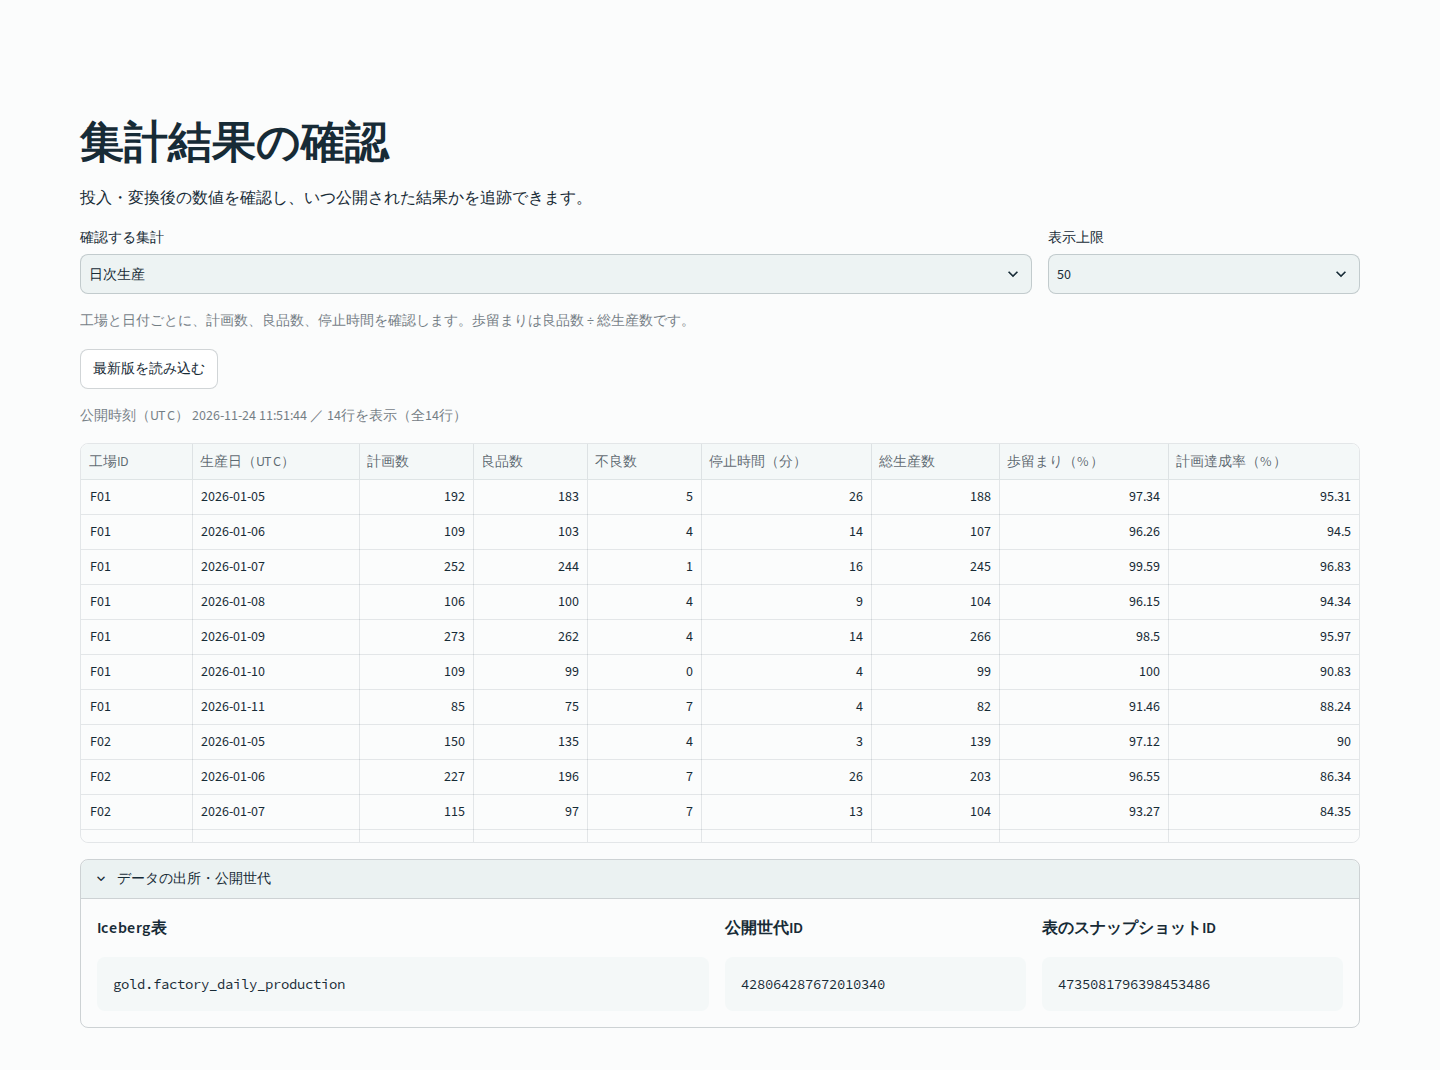
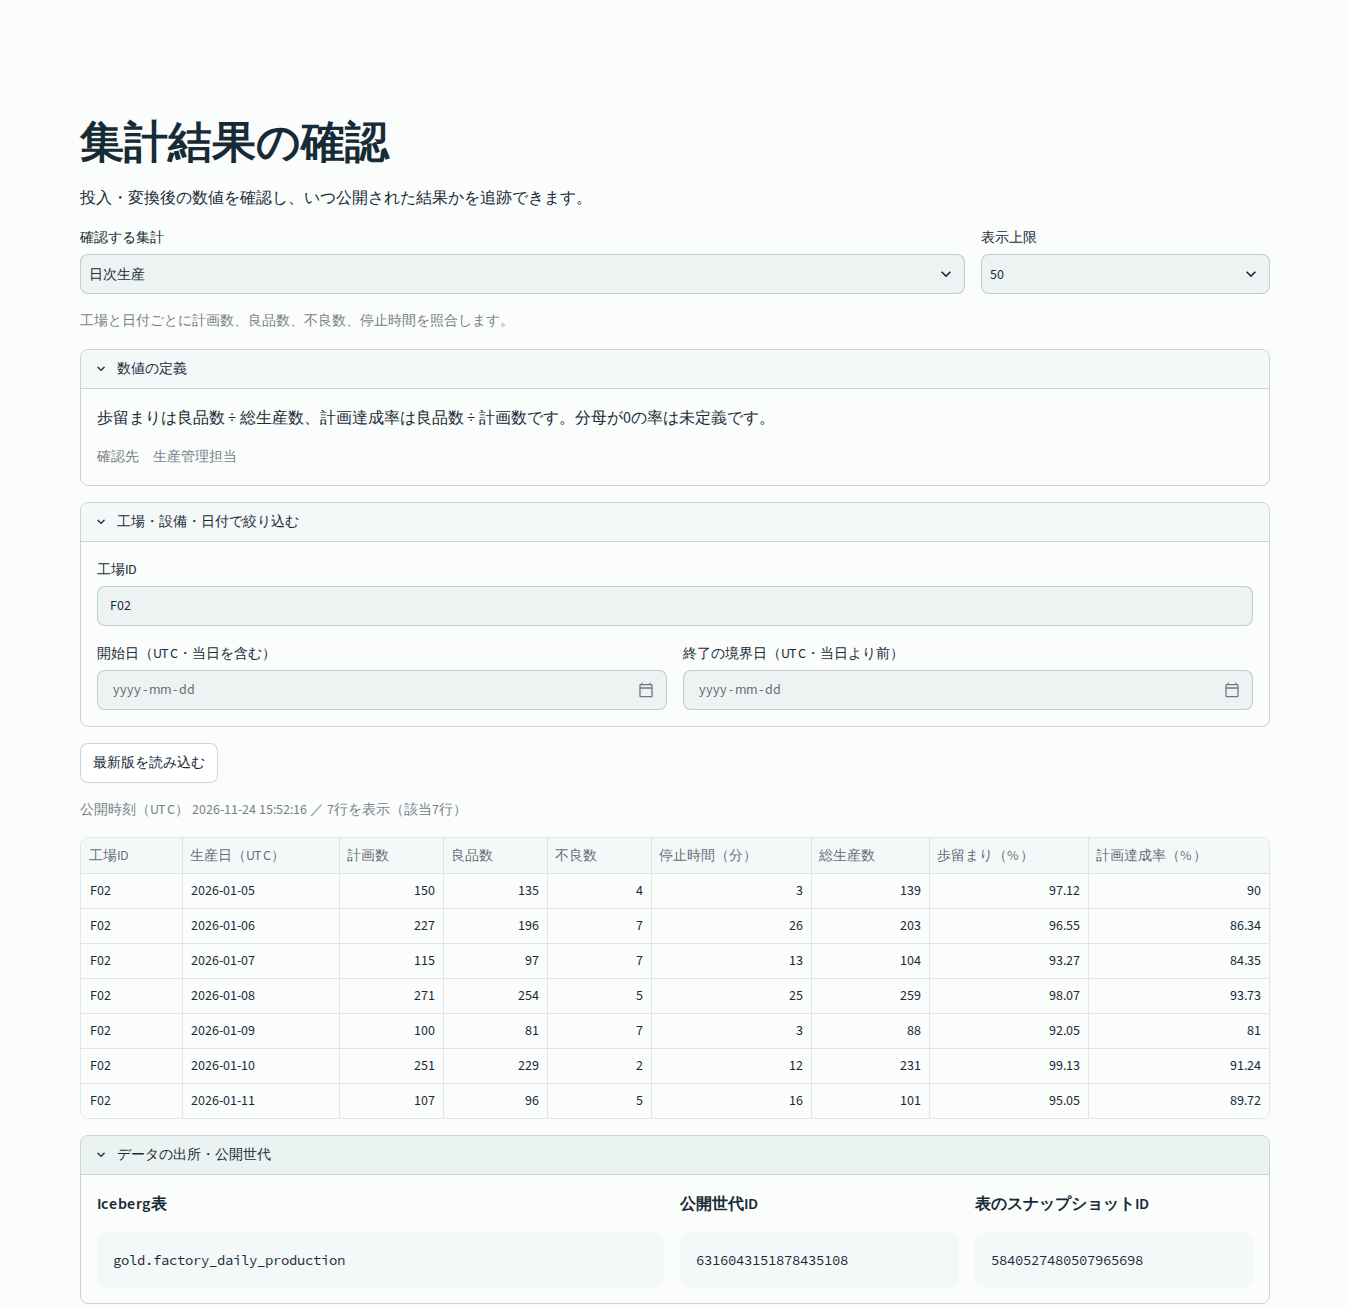
Document the tested generator handoff and filtered data viewer

diff --git a/examples/marimo/browser_smoke.py b/examples/marimo/browser_smoke.py
@@ -15,6 +15,11 @@ def main():
     parser.add_argument("origin")
     parser.add_argument("token_file", type=Path)
     parser.add_argument("screenshot", type=Path)
+    parser.add_argument(
+        "--chromium-executable",
+        type=Path,
+        help="既存のChromiumを使う場合のパス",
+    )
     args = parser.parse_args()
     password = args.token_file.read_text(encoding="utf-8").strip()
     requests_outside_origin = set()
@@ -26,7 +31,9 @@ def main():
         route.abort()
 
     with sync_playwright() as playwright:
-        browser = playwright.chromium.launch()
+        browser = playwright.chromium.launch(
+            executable_path=args.chromium_executable
+        )
         context = browser.new_context(viewport={"width": 1180, "height": 830})
         context.route(
             re.compile(rf"^https?://(?!{re.escape(origin.netloc)}(?:/|$))"),

diff --git a/examples/rill/browser_smoke.py b/examples/rill/browser_smoke.py
@@ -15,6 +15,11 @@ def main():
     parser.add_argument("origin")
     parser.add_argument("password", type=Path)
     parser.add_argument("screenshot", type=Path)
+    parser.add_argument(
+        "--chromium-executable",
+        type=Path,
+        help="既存のChromiumを使う場合のパス",
+    )
     args = parser.parse_args()
     origin = urlsplit(args.origin)
     password = args.password.read_text(encoding="utf-8").strip()
@@ -25,7 +30,9 @@ def main():
         route.abort()
 
     with sync_playwright() as playwright:
-        browser = playwright.chromium.launch()
+        browser = playwright.chromium.launch(
+            executable_path=args.chromium_executable
+        )
         anonymous = browser.new_context()
         assert anonymous.request.get(args.origin).status == 401
         anonymous.close()

diff --git a/scripts/check-source.py b/scripts/check-source.py
@@ -41,6 +41,7 @@ REVIEWED_PNG_SHA256 = {
[1 lines of base64/hex data omitted]
     },
     "docs/native/images/data-browser-demo.png": {
[3 lines of base64/hex data omitted]
     },

diff --git a/docs/native/ACCEPTANCE.md b/docs/native/ACCEPTANCE.md
@@ -22,7 +22,7 @@
 | --- | --- | --- | --- |
 | Git取得 | 会社VMから公開HTTPS URLの `git ls-remote` | `refs/heads/main` とコミットIDが返る | Gitのproxy、許可リスト、OSの信頼CA |
 | 配置 | DokployのDeployとDeploymentsログ、対象サービスの状態を照合 | 7サービス起動、`catalog-migrate` 終了0、Lakehouseがhealthy | Docker daemonとBuildKitの通信、Composeログ |
-| 業務契約 | `python3 native/check_contracts.py`、Dokployのコンテナ端末で `verify` | 契約19ファイル一致。画像原本・型検査・集計など11項目。初回7ファイル、再実行0 | 検査名、固定の期待値、カタログとS3 |
+| 業務契約 | `python3 native/check_contracts.py`、Dokployのコンテナ端末で `verify` | 契約20ファイルとデータ製品の定義が一致。画像原本・型検査・集計など11項目。初回7ファイル、再実行0 | 検査名、固定の期待値、カタログとS3 |
 | 業務処理 | 合成ファイルを生成し `medallion`、Gold参照 | 初回6ファイル、SQL14本。日次生産は2工場×7日。上限5で全14行中5行を返す | 完了印、ファイル名・列、Gold公開時刻 |
 | 再実行 | 入力を変えずに `medallion` とGold参照 | 新規0、`unchanged: true`。前回と同じ公開世代 | 入力の変更、変換の版、稼働中のwriter |
 | 画面・監視 | Grafana、任意GUIに接続 | 監視は標準7対象、GUI付き9対象。閲覧は認証が必要。公開した日次集計と公開世代を確認 | 各サービスの状態、ブラウザー接続経路、ゲートウェイ認証 |
@@ -33,17 +33,34 @@
 
 | 検証 | 入力・操作 | 合格条件 |
 | --- | --- | --- |
-| 画像原本 | 合成PNGとSHA-256完了印を隔離namespaceで取込 | S3のバイト列と元のSHA-256が一致 |
+| 画像原本 | 合成PNGとSHA-256完了印を隔離namespaceで取込 | 正常→破損→正常の原本、SHA-256、画像の隔離と修復を照合 |
 | 受注、日次生産 | 部分・遅延出荷、複数実績と停止、遅延到着、不正値を含む固定fixture | 二重計上がなく、Goldの数量・率とQuarantineが独立期待値に一致 |
 | 設備 | 完全重複1件と同一キー競合2件を含む5行 | 採用2点、GOOD 1点、GOOD平均24.5、最新値90・BAD |
 | SQLバッチ | 合成6表セットを同じ観測日時で2回反映 | 初回の製品1件、再実行skip、SQL専用Goldから参照 |
 | API認証 | 無認証、読取トークン、操作トークンを使い分ける | 無認証と操作トークンでGoldは401、読取トークンで書込みは401 |
-| ファイル形式の誤り | 業務表に未定義のヘッダーを持つCSVに完了印を付けて取込 | ジョブはエラーになり、直前に公開したGoldの世代は変わらない |
+| ファイル形式の誤り | 業務表に未定義のヘッダーを持つCSVに完了印を付けて取込 | 照合済み原本は保存する。ジョブはエラーになり、完了台帳と直前のGold公開世代を維持 |
 | 設備障害と業務更新 | 設備の完了印を破損させ、正しい製品CSVを同時投入。完了印を修復して再実行 | 新しい業務世代を公開し、設備には前回のスナップショットを表示。部分成功と設備の更新保留を記録し、旧世代と復旧後を引き続き読める |
 | 任意の閲覧構成 | 認証なしと認証付きで3画面に接続し、Lakekeeperへ更新要求 | 未認証は401、認証付き閲覧は200、更新要求は403。9対象の疎通値は1 |
 | 外部Kafka CDC | 隔離brokerに新旧更新、遅延snapshot、DELETE、tombstoneを発行し、consumerを再起動 | Raw 9件、offset 0〜8で欠落・重複0。旧版が勝たず、削除後の古い追加は復活せず、再開後の新しい追加を公開 |
 
 [標準Composeの受入コード](../../tests/integration/native/acceptance.py) · [CDCの受入コード](../../tests/integration/native/cdc_acceptance.py) · [業務集計の期待値](../../medallion/expected-demo.json) · [実行結果の一覧](https://github.com/hiromura16/lakehouse-foundation-R/actions)
+
+## 別の投入アプリと受け渡しを照合する
+
+合成試験では独立したファイル生成アプリの通常APIから、製品2件のUTF-8 CSVと
+SHA-256完了印を同じlandingに確定しました。基盤側でS3の原本242バイト、
+Iceberg Silverの日本語名2件と周期の `DECIMAL(18,3)`、固定の指図・受注など
+5入力との集計を照合しました。
+
+| 確認した届き方 | 照合結果 |
+| --- | --- |
+| 送信側の成否と原本 | CSVと完了印が一致。送信側で同じ配送を再実行して書込0 |
+| 受信側の変換 | 初回6ファイル、SQL14文。日次は計画20・良品10・不良1・停止5分。出荷は受注5・出荷3・未出荷2 |
+| 再実行 | 新規0、再変換0、同じ公開世代で全行一致 |
+
+会社で試す際は [入力契約](SOURCES.md) に合う受け渡し先に配置します。
+生成アプリが示す完了と、基盤の取込・公開はそれぞれ確認します。
+テスト用合成データで通した取り込み経路はローカル共有です。
 
 ## 実データへ移る前に
 

diff --git a/docs/native/GUI.md b/docs/native/GUI.md
@@ -35,7 +35,7 @@
 終了の境界日を1月6日にします。
 絞り込みを変えても、**最新版を読み込む** までは同じ公開世代を使います。
 
-![合成データを使った工場別日次生産の閲覧画面](images/data-browser-demo.png)
+![合成データを工場F02の7日分に絞り、数値の定義と公開世代を同時に確認する画面](images/data-browser-demo.png)
 
 同じブラウザーセッションで集計を切り替えると、最初に開いた公開世代の結果を表示します。再投入後の結果を確認するときは「最新版を読み込む」を押します。担当者に数値を問い合わせるときは「データの出所・公開世代」にある表名、公開世代IDと表のスナップショットIDを添えます。
 

diff --git a/examples/marimo/README.md b/examples/marimo/README.md
@@ -61,6 +61,7 @@ docker compose --env-file site.env -p "$project" down
 ブラウザー操作の再検証は、検証端末のPlaywright 1.65.2とChromiumで
 `python browser_smoke.py http://127.0.0.1:<ポート> approved/token screenshot.png`
 を実行します。画面はローカルの認証フォームとWebSocketを使います。
+検証端末の既存Chromiumを使う場合は `--chromium-executable` にそのパスを指定できます。
 
 ## 承認されたGoldへ切り替える
 

diff --git a/examples/rill/README.md b/examples/rill/README.md
@@ -70,6 +70,7 @@ docker compose --env-file site.env -p "$project" down
 期待値は14行、2工場です。検証端末にPlaywright 1.65.2とChromiumがある場合は
 `python browser_smoke.py http://127.0.0.1:<ポート> private/password screenshot.png`
 で画面と認証を再検査します。
+検証端末の既存Chromiumを使う場合は `--chromium-executable` にそのパスを指定できます。
 
 ## 取り込むデータを固定する理由
 
